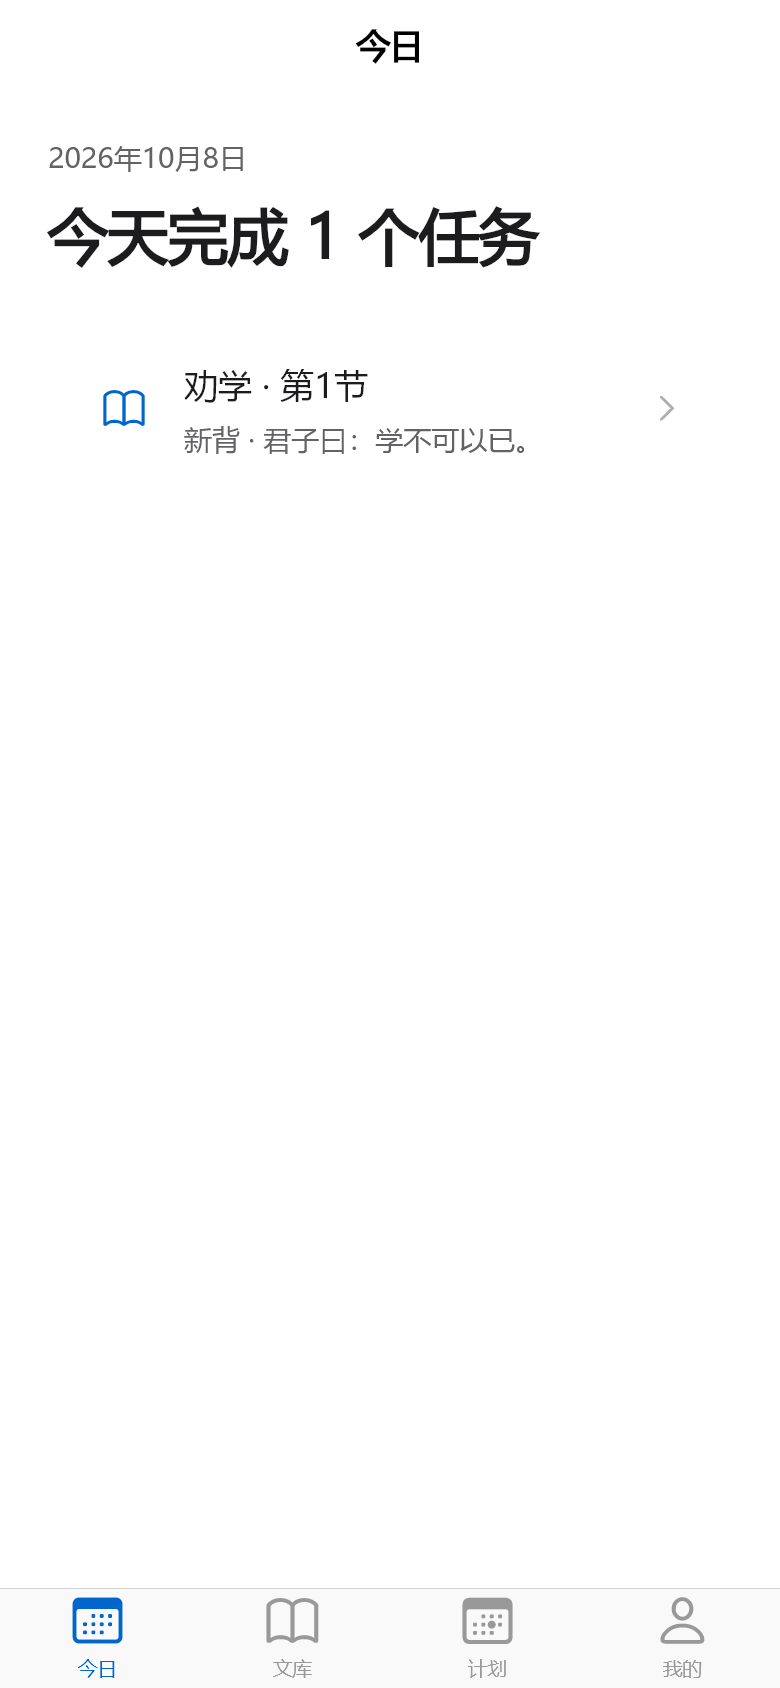
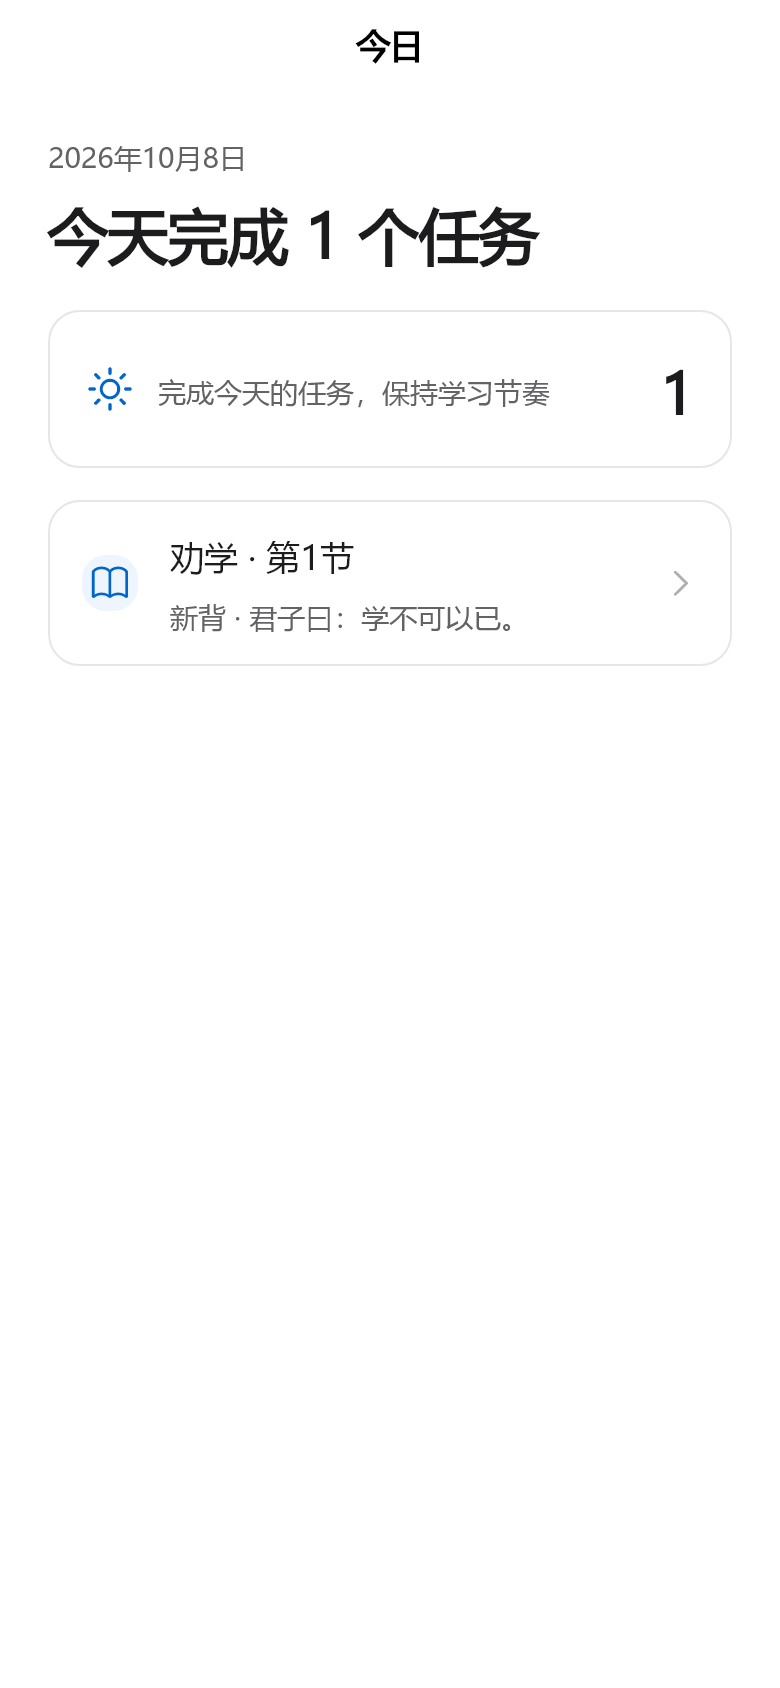
记录 0.2.0 IPA 构建验收与实际 Flutter 页面截图

diff --git a/docs/本次发布验收.md b/docs/本次发布验收.md
@@ -15,11 +15,11 @@
 
 ## 自动验证
 
-- 核心：dart analyze 无问题，dart test 42 项通过。
-- Flutter：flutter analyze 无问题，flutter test 11 项通过。
+- 核心：GitHub CI 的 dart analyze 无问题，dart test 42 项通过。
+- Flutter：GitHub CI 的 flutter analyze 无问题，flutter test 11 项通过；包含新增文库筛选回归。
 - UI 回归覆盖 16 个主要页面，390/320 宽度、320 下 1.5 倍字号；周、月、年切换和页面滚动没有布局异常。
 - 行为回归覆盖导入分段保存、文章编辑后详情刷新、计划修改与删除确认入口、文字考核、语音临时/最终结果、自动结束、权限拒绝和中断不打卡。
-- Windows 中文路径会触发分析服务或着色器编译异常。本次最终 Flutter 检查使用英文路径发布检出及 SDK 别名，全部通过。绘图截图来自 Flutter 测试引擎，不是 iPhone 截图。
+- Windows 中文路径会触发分析服务或着色器编译异常。使用英文路径发布检出及 SDK 别名后，静态分析和此前 10 项页面测试通过；新增搜索回归与最终 11 项检查以 CI 的完整通过为准。绘图截图来自 Flutter 测试引擎，不是 iPhone 截图。
 - iOS 编译结果以本次提交对应的 GitHub Actions 为准，完成后另保存运行号和 IPA 校验值到 output/ios/build-verification.json。
 
 ## 明确限制
@@ -35,3 +35,16 @@
 ## 界面验收结论
 
 检查了层级、间距、共享组件、真实状态、中文文案、触控范围和窄屏大字体布局。修正了重叠边距、录音伪进度、实时转录提示和原文版本刷新。当前可以交付未签名内测构建；真机语音验收与正式签名仍是上线前必要工作。
+
+## 最终构建证据
+
+- 应用提交：fa929a2e8b4c712029a25ef570d1ec78310235dd。
+- 成功运行：[37762456398](https://github.com/iszkq/recitation-plan/actions/runs/37762456398)。
+- 产物：[ios-unsigned-ipa](https://github.com/iszkq/recitation-plan/actions/runs/37762456398/artifacts/11542838665)。
+- macOS/Xcode Release 编译、IPA 打包和上传全部成功；核心 42 项、Flutter 11 项通过。
+- 包内版本 0.2.0，构建号 2；ARM64 可执行文件，无代码签名，ZIP CRC 完整。
+- 麦克风与语音识别权限说明均已写入 Info.plist。
+- SHA-256：a1fecd28a431e64c4ba259b2e2e4111d9cc14f303d63a0bd3126115a481c5a05，与 CI 校验文件一致。
+- 文件大小：7260897 字节。本机 output/ios/recitation-plan-unsigned.ipa 已更新，旧包保存在 output/ios/archive。
+- 实际 Flutter 页面预览：output/native-ui/release-preview.png。截图使用测试文章和 Windows 字体，不是 iPhone 截图。
+- 构建成功没有替代 iPhone 上的录音、权限和平台插件验收。

diff --git a/docs/GitHub构建与安装.md b/docs/GitHub构建与安装.md
@@ -8,7 +8,7 @@
 
 ## 上传源代码
 
-使用 `output/背诵计划-设计交付.zip` 中的源文件，解压后保留 `.github` 目录。也可直接上传工作区中 `.github`、`product`、`docs`、`scripts`、`ui`、根 README/AGENTS/.gitignore。
+最新源码以 GitHub main 分支为准。旧设计交付 ZIP 不代表当前应用版本；复制源文件时保留 .github、product、docs、scripts、ui 和根 README/AGENTS/.gitignore。
 
 不要上传 `.tools`、`.dart_tool`、`build`、本机数据库、录音、证书和缓存。`vendor/remember-me` 只是保留许可的上游参考快照，当前 App 构建不依赖它。
 
@@ -46,4 +46,8 @@
 
 ## 当前版本验证
 
-本次代码版本更新为 0.2.0+2。本地 42 项核心测试、11 项 Flutter 测试及静态分析通过。语音测试使用受控识别适配器验证临时转录不打卡、只用最终结果、自动结束、拒绝权限和中断。16 个主要页面检查 390/320 宽度与 1.5 倍字体；截图来自 Flutter 测试渲染，不是 iPhone 真机。新 IPA 必须来自本次提交对应的成功 Actions，旧构建不能代表新增语音功能。
+本次代码版本更新为 0.2.0+2。最终 GitHub CI 的 42 项核心测试、11 项 Flutter 测试及静态分析通过。语音测试使用受控识别适配器验证临时转录不打卡、只用最终结果、自动结束、拒绝权限和中断。16 个主要页面检查 390/320 宽度与 1.5 倍字体；截图来自 Flutter 测试渲染，不是 iPhone 真机。新 IPA 必须来自本次提交对应的成功 Actions，旧构建不能代表新增语音功能。
+
+最终应用提交 fa929a2 的 [Actions 构建 37762456398](https://github.com/iszkq/recitation-plan/actions/runs/37762456398) 全部成功。
+[下载新版未签名 IPA 产物](https://github.com/iszkq/recitation-plan/actions/runs/37762456398/artifacts/11542838665)，版本 0.2.0+2，SHA-256 为 a1fecd28a431e64c4ba259b2e2e4111d9cc14f303d63a0bd3126115a481c5a05。
+本次之后若仅更新截图、文档和验收记录，不重复构建 IPA；应用代码变化时再构建。

diff --git a/docs/design-system/design-system.md b/docs/design-system/design-system.md
@@ -21,7 +21,7 @@
 
 ## 组件及布局
 
-全局、组件、页面度量分层。HTML 原型引用 tokens.css，App 实现映射到 Flutter ThemeExtension；蓝色使用偏深的系统操作蓝以确保白色按钮文字对比度。
+全局、组件、页面度量分层。HTML 原型引用 tokens.css，App 实现映射到 Cupertino 主题与共享 Design 常量；蓝色使用偏深的系统操作蓝以确保白色按钮文字对比度。
 
 底部导航：今日 / 文库 / 计划 / 我的。导入、编辑、考核、校对采用向内导航，不同时展示底部导航。录音中退出需明确结束或继续，退出产生中断记录而非通过。
 
